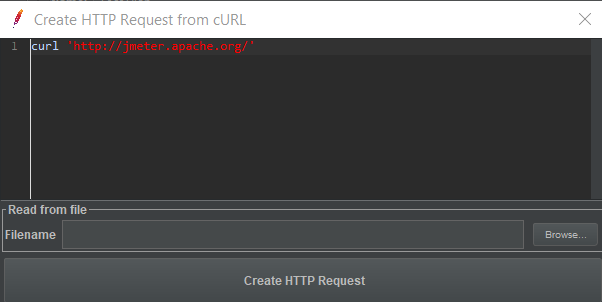
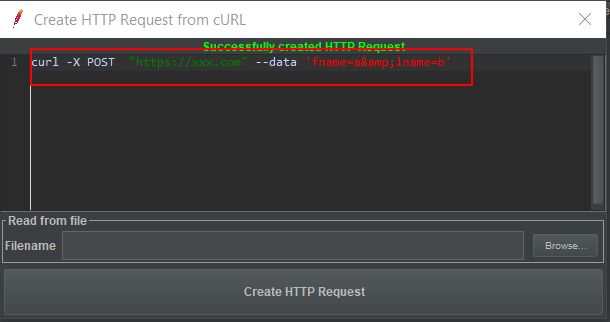
modify curl doc

Changed region(s): [[0.0, 0.0, 1.0, 1.0]]

diff --git a/docs/usermanual/curl.html b/docs/usermanual/curl.html
@@ -182,14 +182,17 @@
 </div>
 <ul class="pagelinks">
 <li>
-<a href="history_future.html">&lt; Prev</a>
+<a href="glossary.html">&lt; Prev</a>
 </li>
 <li>
 <a href="../index.html">Index</a>
 </li>
+<li>
+<a href="history_future.html">Next &gt;</a>
+</li>
 </ul>
 <div class="section">
-<h1 id="hints">25. Curl<a class="sectionlink" href="#hints" title="Link to here">&para;</a>
+<h1 id="hints">24. Curl<a class="sectionlink" href="#hints" title="Link to here">&para;</a>
 </h1>
 
 <p>
@@ -203,34 +206,39 @@ Curl document</a>.
 </p>
 
 <div class="subsection">
-<h2 id="enter_command">25.1 How to enter (a) command(s)<a class="sectionlink" href="#enter_command" title="Link to here">&para;</a>
+<h2 id="enter_command">24.1 How to enter (a) command(s)<a class="sectionlink" href="#enter_command" title="Link to here">&para;</a>
 </h2>
 
 <p>
-There are two ways to enter the curl command line. Firstly, we can enter it manually. Secondly, we can import a file containing the curl command line. 
-This tool supports input of multiple curl command lines at the same time.
+Create a Test Plan From a cURL Command
 </p>
-
+1. To create an import from a cURL, open the &lsquo;Tools&rsquo; menu and click &lsquo;Import from cURL&rsquo;.
 <figure>
 <a href="../images/screenshots/curl/choose_curl.png"><img src="../images/screenshots/curl/choose_curl.png" width="768" height="339" alt="Figure 1 - The menu where curl is located"></a>
 <figcaption>Figure 1 - The menu where curl is located</figcaption>
 </figure>
-
+2.There are two ways to enter the curl command line. Firstly, we can enter it manually. Secondly, we can import a file containing the curl command line. 
+This tool supports input of multiple curl command lines at the same time.
 <figure>
-<a href="../images/screenshots/curl/enter_command.png"><img src="../images/screenshots/curl/enter_command.png" width="767" height="316" alt="Figure 2 - Enter curl command in text panel"></a>
-<figcaption>Figure 2 - Enter curl command in text panel</figcaption>
+<a href="../images/screenshots/curl/enter_command.png"><img src="../images/screenshots/curl/enter_command.png" width="767" height="316" alt="Figure 2.1 - Enter curl command in text panel"></a>
+<figcaption>Figure 2.1 - Enter curl command in text panel</figcaption>
 </figure>
 
 <figure>
-<a href="../images/screenshots/curl/enter_command_from_file.png"><img src="../images/screenshots/curl/enter_command_from_file.png" width="767" height="316" alt="Figure 3 - Enter curl command from file"></a>
-<figcaption>Figure 3 - Enter curl command from file</figcaption>
+<a href="../images/screenshots/curl/enter_command_from_file.png"><img src="../images/screenshots/curl/enter_command_from_file.png" width="767" height="316" alt="Figure 2.2 - Enter curl command from file"></a>
+<figcaption>Figure 2.2 - Enter curl command from file</figcaption>
+</figure>
+3.Then, click &lsquo;Create HTTP Request&rsquo; button and a new HTTP Sample will be added to the Test Plan.
+<figure>
+<a href="../images/screenshots/curl/result.png"><img src="../images/screenshots/curl/result.png" width="767" height="316" alt="Figure 3 - result of Test Plan"></a>
+<figcaption>Figure 3 - result of Test Plan</figcaption>
 </figure>
 
 </div>
 
 
 <div class="subsection">
-<h2 id="curl_options">25.2 Curl options supported<a class="sectionlink" href="#curl_options" title="Link to here">&para;</a>
+<h2 id="curl_options">24.2 Curl options supported<a class="sectionlink" href="#curl_options" title="Link to here">&para;</a>
 </h2>
 
 
@@ -250,15 +258,23 @@ This tool supports input of multiple curl command lines at the same time.
 <b>-b, --cookie &lt;name=data&gt;</b>:Pass the data to the HTTP server as a cookie.</p>
 
 
-<b>Sends the specified data in a POST request to the HTTP server.</b>
+<b>Sends the specified data in a POST request to the HTTP server. If this option is used more than
+ once on the same command line, the data pieces specified will be merged together with a 
+separating "&amp;" character. Thus, using '-d name=daniel -d skill=lousy' would generate a POST
+ chunk that looks like 'name=daniel&amp;skill=lousy'.</b>
 
 <ul>
-<li>-d,--data &lt;data&gt;  --data-ascii &lt;data&gt; </li>
+<li>-d,--data &lt;data&gt;  --data-ascii &lt;data&gt;  :use @ to upload the file</li>
 
 <li> --data-binary &lt;data&gt;  </li>
-<li>--data-raw &lt;data&gt; </li>
+<li>--data-raw &lt;data&gt; : This posts data exactly as specified with no extra processing whatsoever.
+If you start the data with the character @, the rest should be a filename. </li>
 
-<li> --data-urlencode &lt;data&gt;</li>
+<li> --data-urlencode &lt;data&gt; :This posts data, similar to the other --data options with the exception that this performs
+ URL-encoding.</li>
+ 
+<li> --data-raw &lt;data&gt; :This  posts data similarly to --data but without the special interpretation
+of the @ character. </li>
 
 </ul>
 
@@ -266,7 +282,7 @@ This tool supports input of multiple curl command lines at the same time.
 <b>This lets curl emulate a filled-in form in which a user has pressed the submit button.</b>
 
 <ul>
-<li>-F, --form &lt;name=content&gt;</li>
+<li>-F, --form &lt;name=content&gt; :use @ to upload the file</li>
 
 <li>--form-string  &lt;name=content&gt;</li>
 
@@ -339,6 +355,9 @@ this option will make curl redo the request on the new place.</p>
 <b>--interface &lt;name&gt;</b>:Perform an operation using a specified interface. You can enter interface name, IP address or host name.</p>
 
 <p>
+<b>--proxy-ntlm/--proxy-negotiate</b>:Tells curl to use HTTP basic/ntlm/Digest authentication when communicating with the given proxy.</p>
+
+<p>
 <b>--dns-servers &lt;addresses&gt;</b>:Resolve host name over DOH.</p>
 
 <p>
@@ -357,7 +376,7 @@ this option will make curl redo the request on the new place.</p>
 
 
 <div class="subsection">
-<h2 id="warning">25.3 Warning<a class="sectionlink" href="#warning" title="Link to here">&para;</a>
+<h2 id="warning">24.3 Warning<a class="sectionlink" href="#warning" title="Link to here">&para;</a>
 </h2>
 
 <p>
@@ -372,14 +391,40 @@ When the command you entered is ignored or contains warning content, we will dis
 
 </div>
 
+<div class="subsection">
+<h2 id="example">24.4 Examples<a class="sectionlink" href="#example" title="Link to here">&para;</a>
+</h2>
+
+<p>
+<b>Use cookie :</b>curl -X POST  "https://xxx.com" -b 'username=Tom;password=123456'</p>
+
+<p>
+<b>Use data :</b>curl -X POST  "https://xxx.com" --data 'fname=a&amp;lname=b'</p>
+
+<p>
+<b>Use form :</b>curl -X POST  "https://xxx.com" -F 'lname=a'  -F 'fname=b' -F 'c=@C:\Test\test.txt'  </p>
+
+<p>
+<b>Use proxy :</b>curl 'http://jmeter.apache.org/' -x 'https://aa:bb@example.com:8042'</p>
+
+<p>
+<b>Use autorization :</b>curl "https://xxx.com" -u 'user:passwd' --basic</p>
+
+<p>
+<b>Use DNS :</b>curl "https://xxx.com" --dns-servers '0.0.0.0,1.1.1.1'</p>
+
+</div>
 
 </div>
 <ul class="pagelinks">
 <li>
-<a href="history_future.html">&lt; Prev</a>
+<a href="glossary.html">&lt; Prev</a>
 </li>
 <li>
 <a href="../index.html">Index</a>
+</li>
+<li>
+<a href="history_future.html">Next &gt;</a>
 </li>
 </ul>
 <div class="share-links">

diff --git a/docs/usermanual/history_future.html b/docs/usermanual/history_future.html
@@ -182,21 +182,18 @@
 </div>
 <ul class="pagelinks">
 <li>
-<a href="glossary.html">&lt; Prev</a>
+<a href="curl.html">&lt; Prev</a>
 </li>
 <li>
 <a href="../index.html">Index</a>
 </li>
-<li>
-<a href="curl.html">Next &gt;</a>
-</li>
 </ul>
 <div class="section">
-<h1 id="history_future">24. History and Future<a class="sectionlink" href="#history_future" title="Link to here">&para;</a>
+<h1 id="history_future">25. History and Future<a class="sectionlink" href="#history_future" title="Link to here">&para;</a>
 </h1>
 
 <div class="subsection">
-<h2 id="history">24.1 History<a class="sectionlink" href="#history" title="Link to here">&para;</a>
+<h2 id="history">25.1 History<a class="sectionlink" href="#history" title="Link to here">&para;</a>
 </h2>
 
 <p>Stefano Mazzocchi of the Apache Software Foundation was the original developer of JMeter.
@@ -212,7 +209,7 @@ and to add functional-testing capabilities.
 
 
 <div class="subsection">
-<h2 id="future">24.2 The Future<a class="sectionlink" href="#future" title="Link to here">&para;</a>
+<h2 id="future">25.2 The Future<a class="sectionlink" href="#future" title="Link to here">&para;</a>
 </h2>
 
 <p>We hope to see JMeter's capabilities rapidly expand as developers take advantage of its
@@ -244,13 +241,10 @@ The primary goal of further developments will be:
 </div>
 <ul class="pagelinks">
 <li>
-<a href="glossary.html">&lt; Prev</a>
+<a href="curl.html">&lt; Prev</a>
 </li>
 <li>
 <a href="../index.html">Index</a>
-</li>
-<li>
-<a href="curl.html">Next &gt;</a>
 </li>
 </ul>
 <div class="share-links">

diff --git a/docs/usermanual/glossary.html b/docs/usermanual/glossary.html
@@ -188,7 +188,7 @@
 <a href="../index.html">Index</a>
 </li>
 <li>
-<a href="history_future.html">Next &gt;</a>
+<a href="curl.html">Next &gt;</a>
 </li>
 </ul>
 <div class="section">
@@ -304,7 +304,7 @@ The formula is: Throughput = (number of requests) / (total time).
 <a href="../index.html">Index</a>
 </li>
 <li>
-<a href="history_future.html">Next &gt;</a>
+<a href="curl.html">Next &gt;</a>
 </li>
 </ul>
 <div class="share-links">
